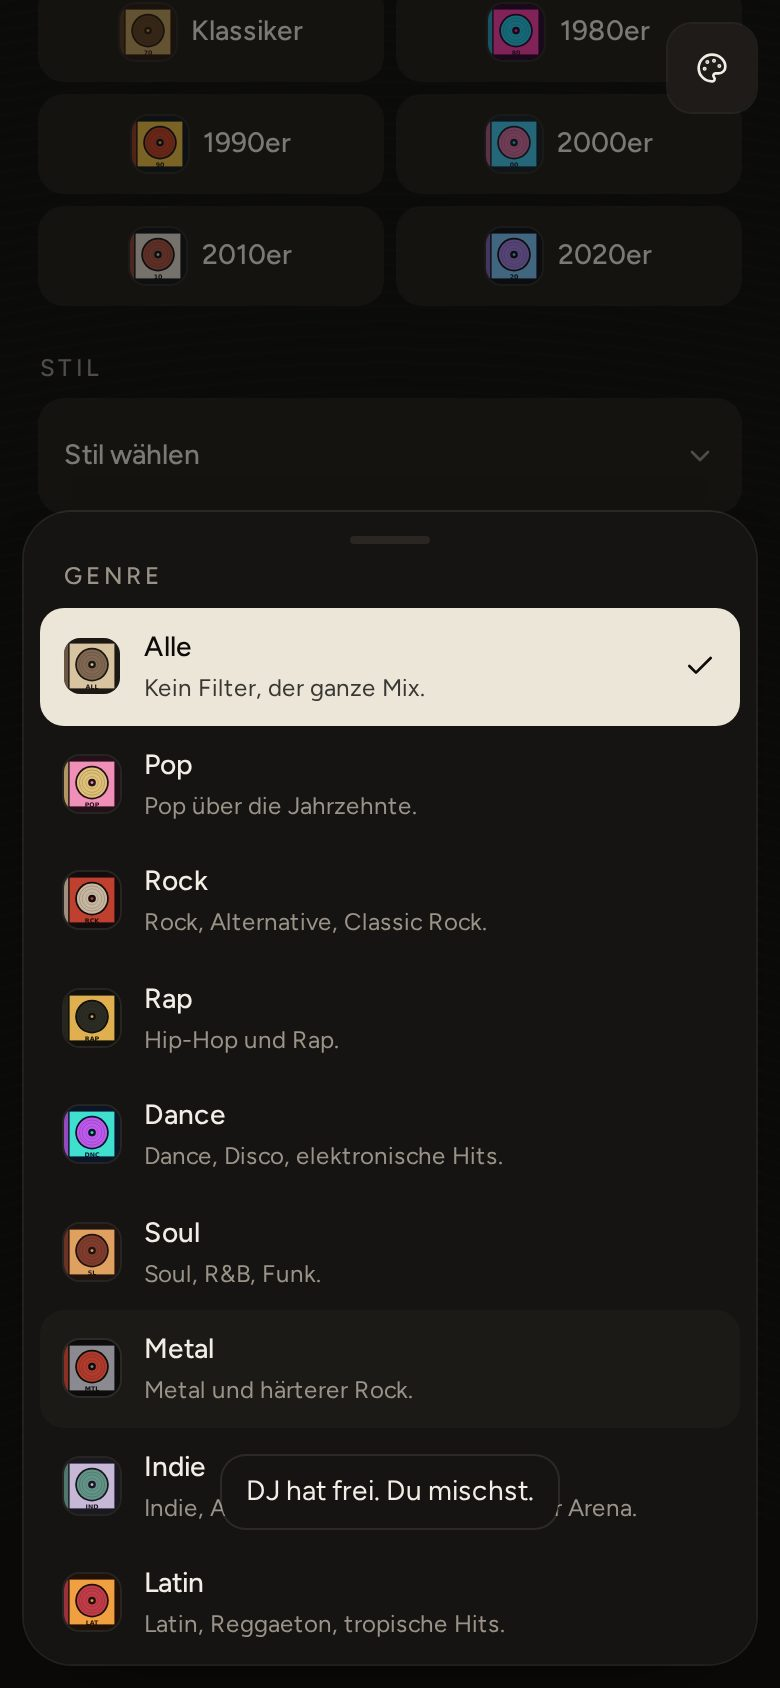
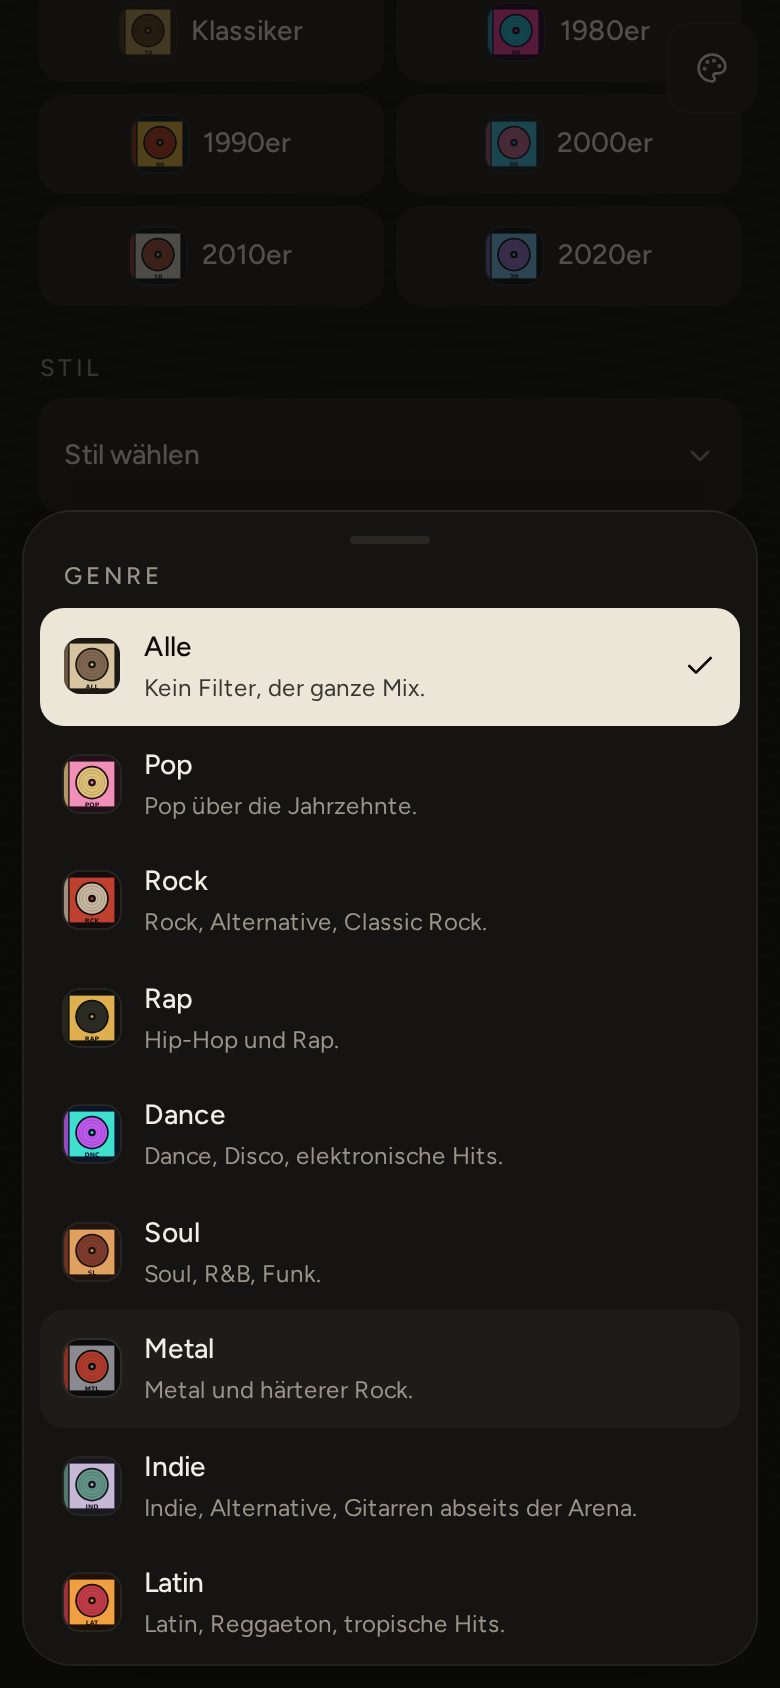
Mobile-Menüs bleiben im Bild.
Die Listen hängen am Viewport, nicht mehr am animierten Screen.

diff --git a/src/components/game/menu-select.tsx b/src/components/game/menu-select.tsx
@@ -1,4 +1,5 @@
 import { useEffect, useState, type ReactNode } from "react";
+import { createPortal } from "react-dom";
 import * as Select from "@radix-ui/react-select";
 import { Check, ChevronDown } from "lucide-react";
 import { sfxHover, sfxTick } from "@/lib/game/audio";
@@ -65,6 +66,16 @@ export function MenuSelect<T extends string>({
     return () => window.removeEventListener("keydown", onKey);
   }, [open]);
 
+  useEffect(() => {
+    if (!open || !narrow) return;
+    const html = document.documentElement;
+    const prev = html.style.overflow;
+    html.style.overflow = "hidden";
+    return () => {
+      html.style.overflow = prev;
+    };
+  }, [open, narrow]);
+
   const trigger = (
     <>
       {current?.art ? <span className="shrink-0">{current.art}</span> : null}
@@ -95,20 +106,21 @@ export function MenuSelect<T extends string>({
         >
           {trigger}
         </button>
-        {open ? (
-          <div className="fixed inset-0 z-50" role="presentation">
-            <button
-              type="button"
-              aria-label="Schließen"
-              className="dialog-overlay absolute inset-0 bg-bg/70"
-              onClick={() => toggle(false)}
-            />
-            <div
-              role="listbox"
-              aria-label={ariaLabel}
-              data-menu-panel={name ?? ariaLabel}
-              className="menu-sheet absolute inset-x-3 bottom-3 max-h-[min(80vh,36rem)] overflow-y-auto rounded-xl bg-surface p-2 pb-[max(0.5rem,env(safe-area-inset-bottom))] text-fg shadow-lift"
-            >
+        {open
+          ? createPortal(
+              <div className="fixed inset-0 z-50" role="presentation">
+                <button
+                  type="button"
+                  aria-label="Schließen"
+                  className="dialog-overlay absolute inset-0 bg-bg/70"
+                  onClick={() => toggle(false)}
+                />
+                <div
+                  role="listbox"
+                  aria-label={ariaLabel}
+                  data-menu-panel={name ?? ariaLabel}
+                  className="menu-sheet absolute inset-x-3 bottom-3 max-h-[min(80dvh,36rem)] overflow-y-auto rounded-xl bg-surface p-2 pb-[max(0.5rem,env(safe-area-inset-bottom))] text-fg shadow-lift"
+                >
               <div className="mx-auto mb-2 mt-1 h-1 w-10 rounded-full bg-border" />
               <p className="px-3 pb-2 text-xs font-medium tracking-[0.16em] text-muted uppercase">
                 {ariaLabel}
@@ -155,8 +167,10 @@ export function MenuSelect<T extends string>({
                 );
               })}
             </div>
-          </div>
-        ) : null}
+              </div>,
+              document.body,
+            )
+          : null}
       </div>
     );
   }
@@ -181,7 +195,9 @@ export function MenuSelect<T extends string>({
           side="bottom"
           align="start"
           sideOffset={8}
-          collisionPadding={12}
+          collisionPadding={16}
+          avoidCollisions
+          sticky="partial"
           className="menu-panel z-50 overflow-hidden rounded-lg bg-surface text-fg shadow-lift"
         >
           <Select.Viewport className="max-h-[min(22rem,70vh)] overflow-y-auto p-1.5">

diff --git a/src/styles.css b/src/styles.css
@@ -384,6 +384,10 @@
   scroll-margin-bottom: 6rem;
 }
 
+.menu-sheet {
+  animation: menu-sheet 220ms cubic-bezier(0.22, 1, 0.36, 1) both;
+}
+
 @keyframes menu-sheet {
   from {
     opacity: 0;
@@ -602,11 +606,9 @@
 @keyframes screen-in {
   from {
     opacity: 0;
-    transform: translateY(8px);
   }
   to {
     opacity: 1;
-    transform: none;
   }
 }
 
